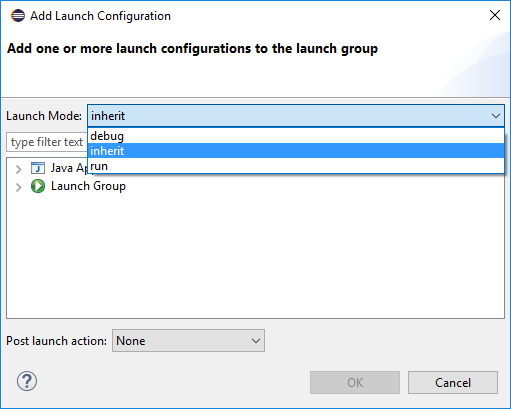
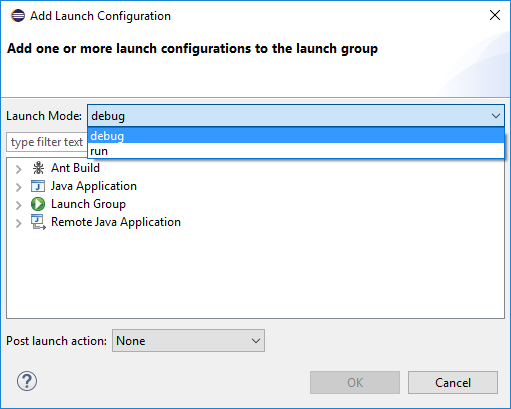
update documentation

Changed region(s): [[0.0294, 0.2641, 0.998, 0.5575]]

diff --git a/index.html b/index.html
@@ -61,7 +61,7 @@
 					<br />		
 					
 					<h3>GUI-Additions</h3>
-                    <hr class="small">	                   
+					<h4>'Launch Group' exists in the <i>Run</i> -and in the <i>Debug Configurations...</i> menu.</h4>
  					<img class="img-portfolio" src="img/launch_group.PNG">
                     <img class="img-portfolio" src="img/termination_button.PNG">
 					<br />
@@ -89,7 +89,7 @@
 					
 					<p><h4><b>Debug</b> - is a native Eclipse-Implementation, which starts the application normally but waits at breakpoints.</h4></p>
 					
-					<p><h4><b>Inherit</b> - is an auto adaptable mode, which varies from being in Run -or Debug. Depends on multilaunch startmode.</h4></p>
+					<!-- <p><h4><b>Inherit</b> - is an auto adaptable mode, which varies from being in Run -or Debug. Depends on multilaunch startmode.</h4></p> -->
 					<br />
 					
 					
